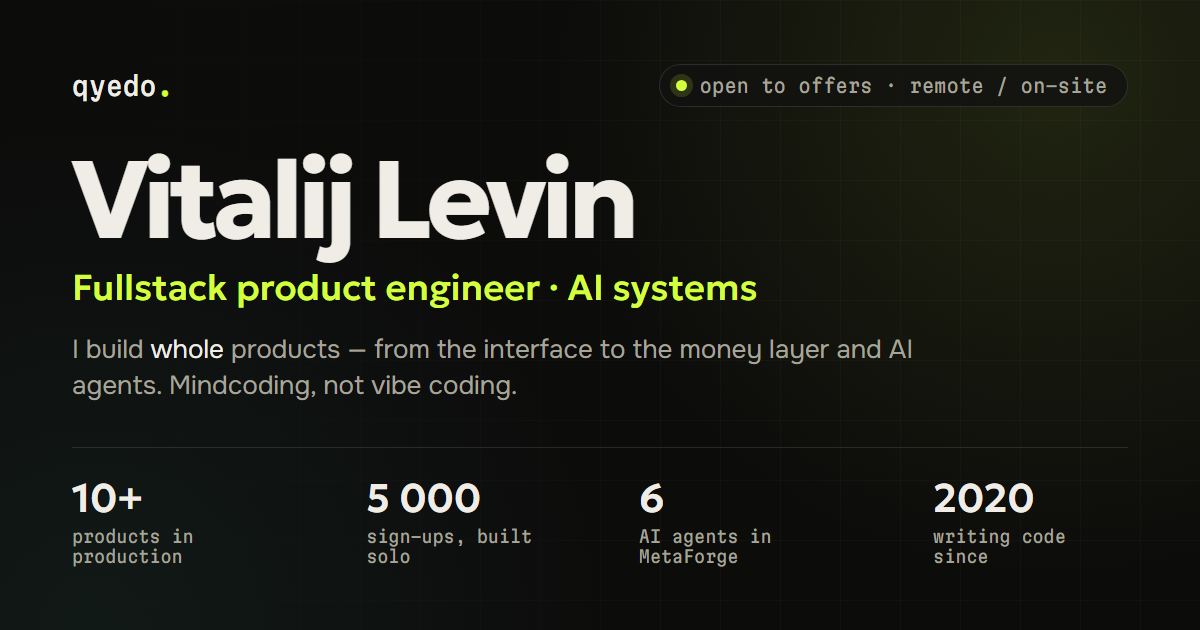
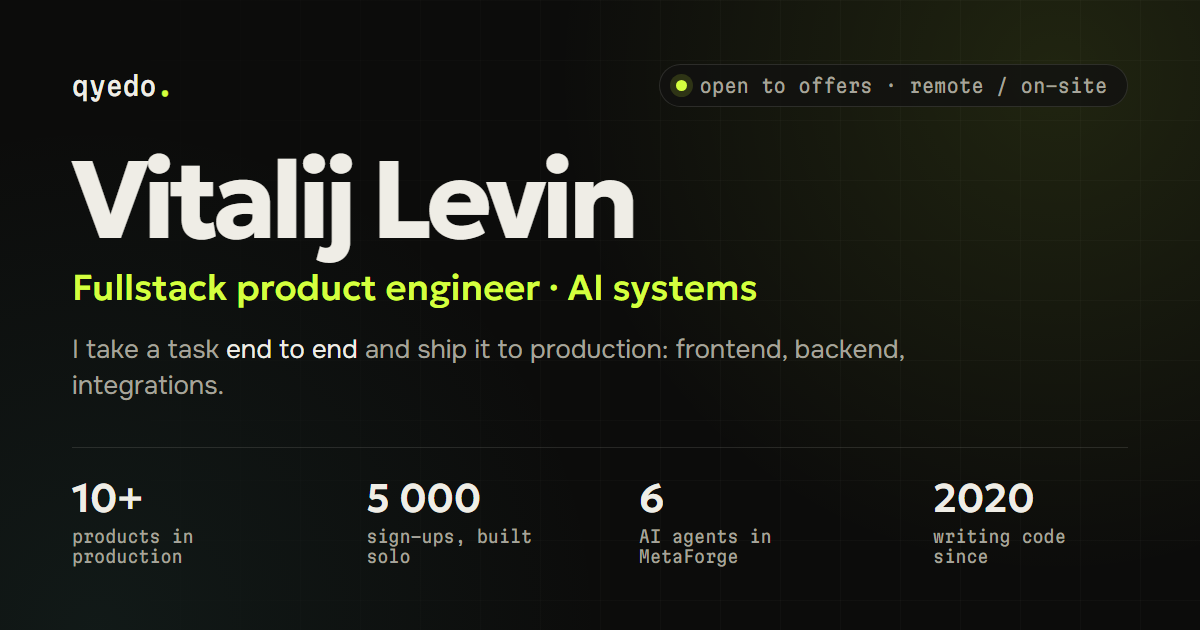
copy: employer-focused hero line
Hero now says what a team gets: "Беру задачу целиком и довожу до
продакшена: фронтенд, бэкенд, интеграции." (EN: "I take a task end to
end and ship it to production: frontend, backend, integrations.").
Dropped the "до денег и ИИ-агентов" filler there, in the footer, the
meta/OG descriptions and the link-preview image.

Changed region(s): [[0.0617, 0.5429, 0.7708, 0.573], [0.0617, 0.6032, 0.4317, 0.6333]]

diff --git a/index.html b/index.html
@@ -3,11 +3,11 @@
 <head>
 <meta charset="UTF-8">
 <meta name="viewport" content="width=device-width, initial-scale=1.0">
-<meta name="description" content="Виталий Левин (qyedo) — fullstack product engineer. Строю продукты целиком: интерфейс, бэкенд, платёжный слой и ИИ-системы. Майндкодинг вместо вайбкодинга.">
+<meta name="description" content="Виталий Левин (qyedo) — fullstack product engineer. Беру задачу целиком и довожу до продакшена: фронтенд, бэкенд, интеграции. 10+ продуктов в продакшене.">
 <meta name="theme-color" content="#0c0c0b">
 <meta property="og:type" content="website">
 <meta property="og:title" content="Виталий Левин — fullstack product engineer">
-<meta property="og:description" content="Строю продукты целиком — от интерфейса до финансового ядра и ИИ-агентов. Пишу с ИИ — думаю сам.">
+<meta property="og:description" content="Fullstack product engineer. Беру задачу целиком и довожу до продакшена: фронтенд, бэкенд, интеграции. 10+ продуктов в продакшене.">
 <meta property="og:url" content="https://se2je.github.io/qyedo-public-porftolio/">
 <meta property="og:image" content="https://se2je.github.io/qyedo-public-porftolio/assets/og-image.png">
 <meta property="og:image:width" content="1200">
@@ -475,7 +475,7 @@
           <span class="hn-line" data-ru="Левин" data-en="Levin">Левин</span>
         </h1>
         <p class="hero-role" data-intro>Fullstack product engineer</p>
-        <p class="hero-lead" data-intro data-i18n-html="hero.lead">Строю продукты целиком — от&nbsp;интерфейса до&nbsp;денег и&nbsp;ИИ-агентов. <span class="dim">Пишу с&nbsp;ИИ, думаю сам.</span></p>
+        <p class="hero-lead" data-intro data-i18n-html="hero.lead">Беру задачу целиком и&nbsp;довожу до&nbsp;продакшена: фронтенд, бэкенд, интеграции.</p>
         <div class="hero-actions" data-intro>
           <a href="#cases" class="btn btn-primary magnetic"><span data-ru="Смотреть кейсы" data-en="See the work">Смотреть кейсы</span><span class="arr down" aria-hidden="true">↓</span></a>
           <a href="https://t.me/qyedo" class="btn btn-ghost magnetic" target="_blank" rel="noopener">Telegram <span class="arr" aria-hidden="true">↗</span></a>
@@ -1137,7 +1137,7 @@
 <footer id="contact">
   <div class="wrap-wide">
     <h2 class="foot-title" data-ru="Давайте поговорим" data-en="Let's talk">Давайте поговорим</h2>
-    <p class="foot-lead" data-ru="Ищу команду, где нужен инженер, который отвечает за продукт целиком — от интерфейса до денег и ИИ." data-en="I'm looking for a team that needs an engineer who owns the whole product — from the interface to the money layer and AI.">Ищу команду, где нужен инженер, который отвечает за продукт целиком — от интерфейса до денег и ИИ.</p>
+    <p class="foot-lead" data-ru="Ищу команду, где нужен разработчик, которому можно отдать задачу целиком." data-en="I&#39;m looking for a team that needs a developer they can hand a whole task to.">Ищу команду, где нужен разработчик, которому можно отдать задачу целиком.</p>
     <div class="foot-links">
       <a class="foot-mail" href="mailto:qyedodev@gmail.com">qyedodev@gmail.com</a>
       <a class="foot-tg" href="https://t.me/qyedo" target="_blank" rel="noopener">Telegram @qyedo ↗</a>
@@ -1170,8 +1170,8 @@ const RESUME_NAME = { ru: "Vitalij_Levin_CV_RU.pdf", en: "Vitalij_Levin_CV_EN.pd
 // Plain texts keep using data-ru / data-en attributes.
 const I18N_HTML = {
   'hero.lead': {
-    ru: 'Строю продукты целиком — от&nbsp;интерфейса до&nbsp;денег и&nbsp;ИИ-агентов. <span class="dim">Пишу с&nbsp;ИИ, думаю сам.</span>',
-    en: 'I build whole products — from the interface to the money layer and AI&nbsp;agents. <span class="dim">I code with AI and think for myself.</span>'
+    ru: 'Беру задачу целиком и&nbsp;довожу до&nbsp;продакшена: фронтенд, бэкенд, интеграции.',
+    en: 'I take a task end to end and ship it to production: frontend, backend, integrations.'
   },
   'mc.lead': {
     ru: 'ИИ пишет код. <em>Решения принимаю&nbsp;я.</em>',
